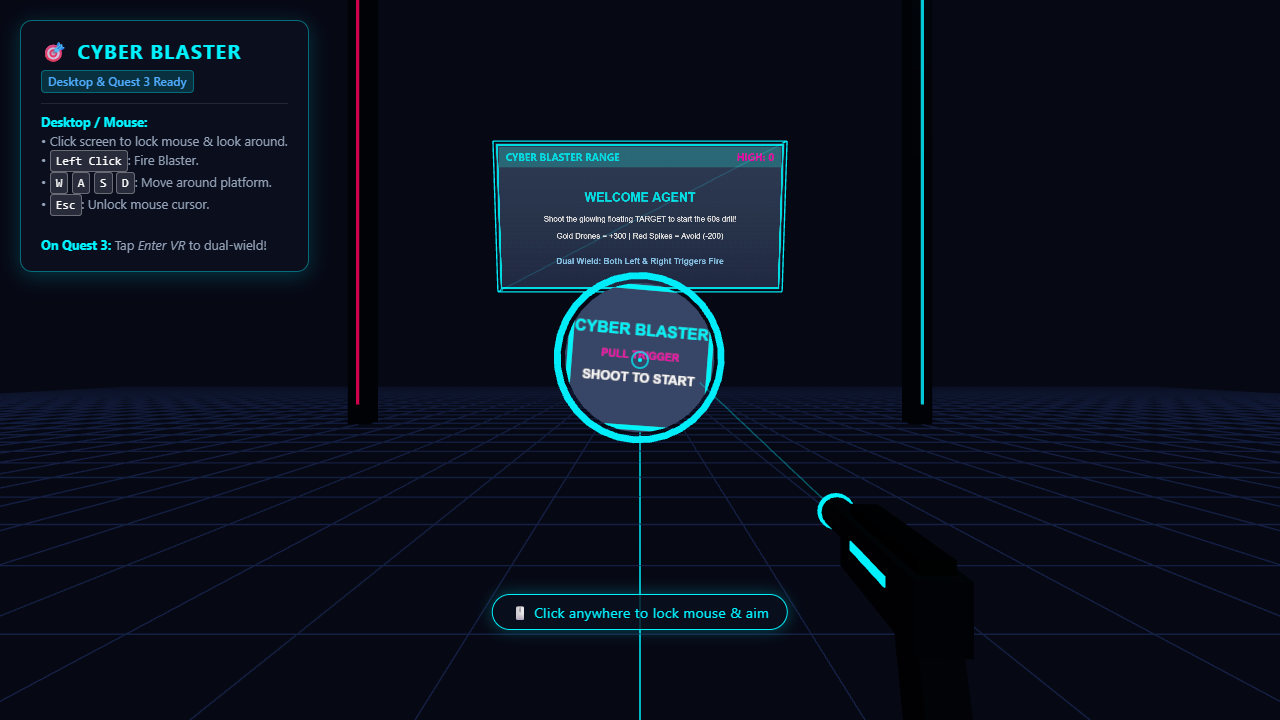
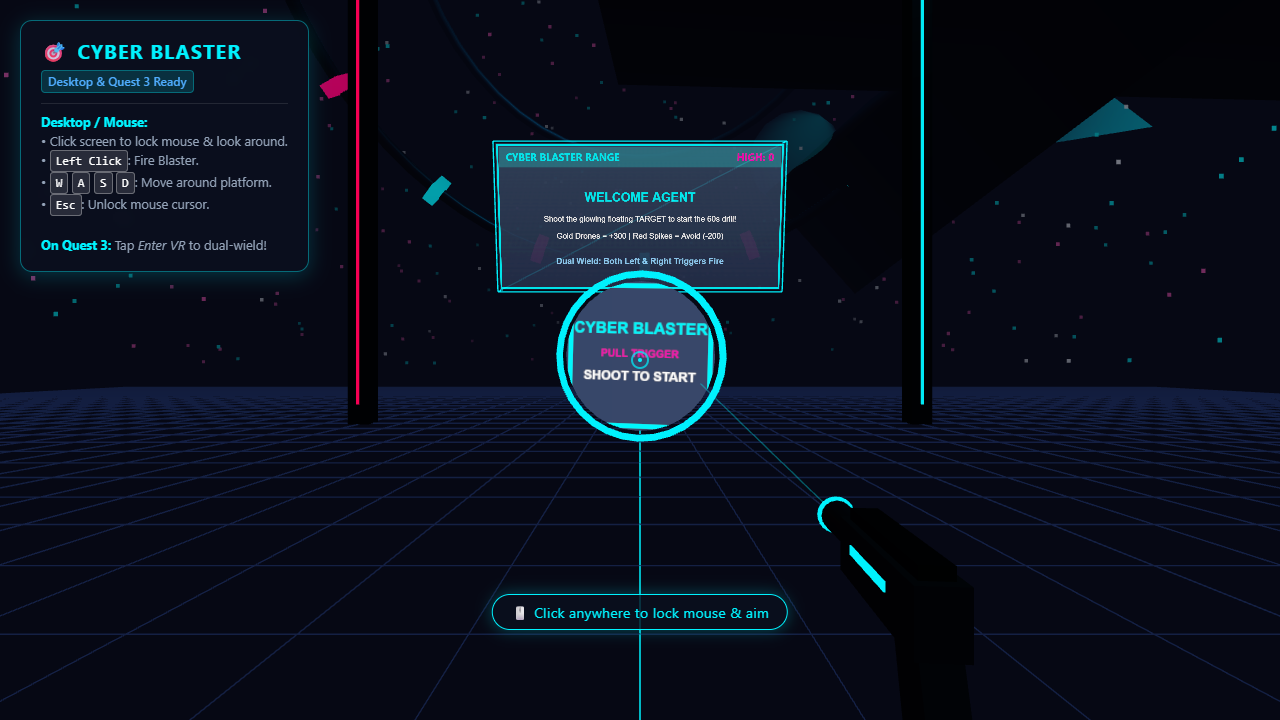
Add colossal cruising dreadnought, rotating orbital rings, and cyber starfield

diff --git a/src/background.js b/src/background.js
@@ -1,0 +1,312 @@
+import * as THREE from 'three';
+
+export class BackgroundManager {
+  constructor(scene) {
+    this.scene = scene;
+
+    this.group = new THREE.Group();
+    this.scene.add(this.group);
+
+    // Glowing vibrant materials for high-contrast visibility
+    this.hullDarkMat = new THREE.MeshStandardMaterial({
+      color: 0x151c32,
+      metalness: 0.85,
+      roughness: 0.2
+    });
+
+    this.hullArmorMat = new THREE.MeshStandardMaterial({
+      color: 0x222e50,
+      metalness: 0.8,
+      roughness: 0.3
+    });
+
+    this.glowCyanMat = new THREE.MeshBasicMaterial({
+      color: 0x00f2fe
+    });
+
+    this.glowMagentaMat = new THREE.MeshBasicMaterial({
+      color: 0xff0077
+    });
+
+    this.thrusterMat = new THREE.MeshBasicMaterial({
+      color: 0x00ffff
+    });
+
+    this.thrusterCoreMat = new THREE.MeshBasicMaterial({
+      color: 0xffffff
+    });
+
+    // Spotlight beam material
+    this.beamMat = new THREE.MeshBasicMaterial({
+      color: 0x00f2fe,
+      transparent: true,
+      opacity: 0.22,
+      side: THREE.DoubleSide,
+      depthWrite: false,
+      blending: THREE.AdditiveBlending
+    });
+
+    this.createStarfield();
+    this.createOrbitalRingStation();
+    this.createDreadnoughtMothership();
+  }
+
+  // --- 1. Cyber Starfield (adds depth behind the dreadnought) ---
+  createStarfield() {
+    const starCount = 800;
+    const starGeo = new THREE.BufferGeometry();
+    const positions = new Float32Array(starCount * 3);
+    const colors = new Float32Array(starCount * 3);
+
+    for (let i = 0; i < starCount; i++) {
+      // Distribute in a dome around the player
+      const u = Math.random();
+      const v = Math.random();
+      const theta = u * 2.0 * Math.PI;
+      const phi = Math.acos(2.0 * v - 1.0);
+      const r = 70.0 + Math.random() * 20.0;
+
+      const x = r * Math.sin(phi) * Math.cos(theta);
+      const y = Math.abs(r * Math.cos(phi)) + 1.0; // Keep in the upper hemisphere
+      const z = -Math.abs(r * Math.sin(phi) * Math.sin(theta)) - 10.0; // In front and around
+
+      positions[i * 3] = x;
+      positions[i * 3 + 1] = y;
+      positions[i * 3 + 2] = z;
+
+      // Cyan / Magenta / White star tints
+      if (Math.random() < 0.4) {
+        colors[i * 3] = 0.0;
+        colors[i * 3 + 1] = 0.95;
+        colors[i * 3 + 2] = 1.0;
+      } else if (Math.random() < 0.7) {
+        colors[i * 3] = 1.0;
+        colors[i * 3 + 1] = 0.1;
+        colors[i * 3 + 2] = 0.5;
+      } else {
+        colors[i * 3] = 0.9;
+        colors[i * 3 + 1] = 0.95;
+        colors[i * 3 + 2] = 1.0;
+      }
+    }
+
+    starGeo.setAttribute('position', new THREE.BufferAttribute(positions, 3));
+    starGeo.setAttribute('color', new THREE.BufferAttribute(colors, 3));
+
+    const starMat = new THREE.PointsMaterial({
+      size: 0.65,
+      vertexColors: true,
+      transparent: true,
+      opacity: 0.85
+    });
+
+    this.stars = new THREE.Points(starGeo, starMat);
+    this.group.add(this.stars);
+  }
+
+  // --- 2. Giant Rotating Orbital Ring Station ---
+  createOrbitalRingStation() {
+    const ringGroup = new THREE.Group();
+    ringGroup.position.set(0, 32, -35);
+    ringGroup.rotation.x = THREE.MathUtils.degToRad(35); // tilted towards player
+
+    // Outer massive ring (radius 26m)
+    const outerRingGeo = new THREE.TorusGeometry(26, 0.5, 8, 64);
+    const outerRing = new THREE.Mesh(outerRingGeo, this.hullDarkMat);
+    ringGroup.add(outerRing);
+
+    // Glowing segments along the ring
+    const ringDetailCount = 16;
+    for (let i = 0; i < ringDetailCount; i++) {
+      const angle = (i / ringDetailCount) * Math.PI * 2;
+      const podGeo = new THREE.BoxGeometry(1.6, 1.0, 2.8);
+      const pod = new THREE.Mesh(podGeo, (i % 2 === 0) ? this.glowCyanMat : this.glowMagentaMat);
+      pod.position.set(Math.cos(angle) * 26, Math.sin(angle) * 26, 0);
+      pod.rotation.z = angle;
+      ringGroup.add(pod);
+    }
+
+    // Inner counter-rotating ring (radius 16m)
+    const innerRingGeo = new THREE.TorusGeometry(16, 0.35, 8, 48);
+    const innerRing = new THREE.Mesh(innerRingGeo, this.hullArmorMat);
+    ringGroup.add(innerRing);
+
+    // Glowing energy core reactor
+    const coreGeo = new THREE.OctahedronGeometry(5.0, 1);
+    const coreMat = new THREE.MeshBasicMaterial({
+      color: 0x00f2fe,
+      wireframe: true
+    });
+    const coreMesh = new THREE.Mesh(coreGeo, coreMat);
+    ringGroup.add(coreMesh);
+
+    this.ringGroup = ringGroup;
+    this.innerRing = innerRing;
+    this.coreMesh = coreMesh;
+    this.group.add(ringGroup);
+  }
+
+  // --- 3. Colossal Sci-Fi Dreadnought Mothership ---
+  createDreadnoughtMothership() {
+    const ship = new THREE.Group();
+    ship.position.set(0, 15, -34);
+    ship.scale.setScalar(1.5);
+
+    // Main Central Hull (Swept Interceptor Prow)
+    const hullGeo = new THREE.ConeGeometry(7, 36, 4);
+    hullGeo.rotateX(Math.PI / 2); // points forward along -Z
+    const mainHull = new THREE.Mesh(hullGeo, this.hullDarkMat);
+    ship.add(mainHull);
+
+    // Glowing Hull Edge Armor Panels
+    const edgeL = new THREE.Mesh(new THREE.BoxGeometry(0.35, 0.4, 30), this.glowCyanMat);
+    edgeL.position.set(-3.2, 0.2, 0);
+    edgeL.rotation.y = THREE.MathUtils.degToRad(-8);
+    ship.add(edgeL);
+
+    const edgeR = new THREE.Mesh(new THREE.BoxGeometry(0.35, 0.4, 30), this.glowCyanMat);
+    edgeR.position.set(3.2, 0.2, 0);
+    edgeR.rotation.y = THREE.MathUtils.degToRad(8);
+    ship.add(edgeR);
+
+    // Upper Bridge Tower
+    const bridgeGeo = new THREE.BoxGeometry(4.2, 3.0, 12);
+    const bridge = new THREE.Mesh(bridgeGeo, this.hullArmorMat);
+    bridge.position.set(0, 2.8, 3);
+    ship.add(bridge);
+
+    // Bridge Command Deck Visor (Glowing Neon Magenta)
+    const visorGeo = new THREE.BoxGeometry(4.4, 0.6, 3.5);
+    const visor = new THREE.Mesh(visorGeo, this.glowMagentaMat);
+    visor.position.set(0, 3.5, 1.5);
+    ship.add(visor);
+
+    // Massive Swept Wings (Span 32 meters)
+    const wingGeo = new THREE.BoxGeometry(32, 1.4, 14);
+    const wings = new THREE.Mesh(wingGeo, this.hullDarkMat);
+    wings.position.set(0, 0.4, 6);
+    ship.add(wings);
+
+    // Wingtip Beacon Lights
+    this.wingtipLights = [];
+    const tipL = new THREE.Mesh(new THREE.SphereGeometry(0.6, 8, 8), this.glowMagentaMat);
+    tipL.position.set(-16, 0.4, 7);
+    ship.add(tipL);
+    this.wingtipLights.push(tipL);
+
+    const tipR = new THREE.Mesh(new THREE.SphereGeometry(0.6, 8, 8), this.glowCyanMat);
+    tipR.position.set(16, 0.4, 7);
+    ship.add(tipR);
+    this.wingtipLights.push(tipR);
+
+    // 4 Massive Glowing Plasma Engines
+    this.thrusters = [];
+    const thrusterOffsets = [
+      [-6.5, 0.4, 13],
+      [6.5, 0.4, 13],
+      [-2.2, 2.2, 13],
+      [2.2, 2.2, 13]
+    ];
+
+    for (const [tx, ty, tz] of thrusterOffsets) {
+      // Metal Engine Housing
+      const housing = new THREE.Mesh(
+        new THREE.CylinderGeometry(1.5, 1.8, 3.0, 16),
+        this.hullArmorMat
+      );
+      housing.rotation.x = Math.PI / 2;
+      housing.position.set(tx, ty, tz);
+      ship.add(housing);
+
+      // Outer Plasma Flame
+      const plume = new THREE.Mesh(
+        new THREE.ConeGeometry(1.4, 7.5, 16),
+        this.thrusterMat
+      );
+      plume.rotation.x = -Math.PI / 2;
+      plume.position.set(tx, ty, tz + 4.2);
+      ship.add(plume);
+
+      // Inner White Hot Core
+      const innerCore = new THREE.Mesh(
+        new THREE.ConeGeometry(0.7, 5.0, 16),
+        this.thrusterCoreMat
+      );
+      innerCore.rotation.x = -Math.PI / 2;
+      innerCore.position.set(tx, ty, tz + 3.0);
+      ship.add(innerCore);
+
+      this.thrusters.push({ plume, innerCore });
+    }
+
+    // Twin High-Intensity Sweeping Atmospheric Searchlights
+    this.spotlights = [];
+    const spotOffsets = [-7, 7];
+    for (const sx of spotOffsets) {
+      const beamGeo = new THREE.ConeGeometry(8, 65, 16, 1, true);
+      beamGeo.rotateX(Math.PI / 2);
+      beamGeo.translate(0, 0, -32.5); // anchor tip at emitter
+      const beam = new THREE.Mesh(beamGeo, this.beamMat);
+      beam.position.set(sx, -0.6, -3);
+      ship.add(beam);
+      this.spotlights.push(beam);
+    }
+
+    this.ship = ship;
+    this.group.add(ship);
+  }
+
+  update(dt, elapsed) {
+    // 1. Slowly rotate starfield
+    if (this.stars) {
+      this.stars.rotation.y = elapsed * 0.01;
+    }
+
+    // 2. Rotate Orbital Rings
+    if (this.ringGroup) {
+      this.ringGroup.rotation.z += dt * 0.09;
+      this.innerRing.rotation.z -= dt * 0.18;
+      this.coreMesh.rotation.x += dt * 0.45;
+      this.coreMesh.rotation.y += dt * 0.7;
+    }
+
+    // 3. Animate Colossal Dreadnought Cruising
+    if (this.ship) {
+      const t = elapsed * 0.16; // smooth cruising speed
+      // Broad majestic horizontal glide across sky
+      const posX = Math.sin(t) * 26; 
+      const posY = 15 + Math.sin(t * 1.6) * 3.0; // floating altitude swell
+      const posZ = -34 + Math.cos(t) * 9; // forward/back depth glide
+
+      this.ship.position.set(posX, posY, posZ);
+
+      // Banking into turns like a heavy capital ship
+      const bankRoll = -Math.cos(t) * 0.22;
+      const turnYaw = -Math.cos(t) * 0.28;
+      this.ship.rotation.z = THREE.MathUtils.lerp(this.ship.rotation.z, bankRoll, dt * 2.0);
+      this.ship.rotation.y = THREE.MathUtils.lerp(this.ship.rotation.y, turnYaw, dt * 2.0);
+      this.ship.rotation.x = Math.sin(t * 2) * 0.06;
+
+      // Engine Flame Pulsing
+      const flicker = 1.0 + Math.sin(elapsed * 15) * 0.2;
+      for (const th of this.thrusters) {
+        th.plume.scale.set(flicker, 1.0 + Math.sin(elapsed * 22) * 0.35, flicker);
+        th.innerCore.scale.set(1.0, 1.0 + Math.sin(elapsed * 30) * 0.2, 1.0);
+      }
+
+      // Sweeping Searchlight Beams
+      for (let i = 0; i < this.spotlights.length; i++) {
+        const spot = this.spotlights[i];
+        const dir = (i === 0) ? 1 : -1;
+        spot.rotation.y = Math.sin(elapsed * 0.9 + i * 1.5) * 0.4 * dir;
+        spot.rotation.x = THREE.MathUtils.degToRad(18) + Math.cos(elapsed * 0.7 + i) * 0.18;
+      }
+
+      // Strobe wingtip lights
+      const strobe = Math.sin(elapsed * 6) > 0 ? 1.0 : 0.2;
+      for (const tip of this.wingtipLights) {
+        tip.scale.setScalar(strobe);
+      }
+    }
+  }
+}

diff --git a/src/main.js b/src/main.js
@@ -4,6 +4,7 @@ import { sounds } from './audio.js';
 import { createBlasterMesh, ProjectileManager, triggerHaptic } from './blaster.js';
 import { TargetManager, TARGET_TYPE } from './targets.js';
 import { ScoreboardHUD } from './hud.js';
+import { BackgroundManager } from './background.js';
 
 // --- Scene & Camera Setup ---
 const container = document.getElementById('canvas-container');
@@ -12,7 +13,7 @@ const lockBannerEl = document.getElementById('lock-banner');
 
 const scene = new THREE.Scene();
 scene.background = new THREE.Color(0x060814);
-scene.fog = new THREE.FogExp2(0x060814, 0.035);
+scene.fog = new THREE.FogExp2(0x060814, 0.015);
 
 const camera = new THREE.PerspectiveCamera(70, window.innerWidth / window.innerHeight, 0.1, 100);
 camera.position.set(0, 1.6, 0); // 1.6m eye height
@@ -95,6 +96,7 @@ for (let i = -4; i <= 4; i += 2) {
 const projectiles = new ProjectileManager(scene);
 const targets = new TargetManager(scene);
 const hud = new ScoreboardHUD(scene);
+const background = new BackgroundManager(scene);
 
 // Desktop First-Person Blaster (visible on PC)
 const desktopBlaster = createBlasterMesh(false);
@@ -446,9 +448,10 @@ renderer.setAnimationLoop(() => {
     }
   }
 
-  // 4. Update Targets & Projectiles
+  // 4. Update Targets, Projectiles & Background
   targets.update(dt, elapsed);
   projectiles.update(dt, targets, onTargetHit);
+  background.update(dt, elapsed);
 
   // 5. Render
   renderer.render(scene, camera);
